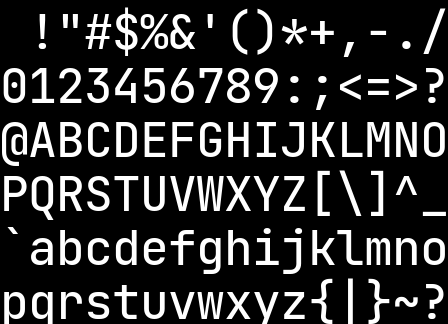
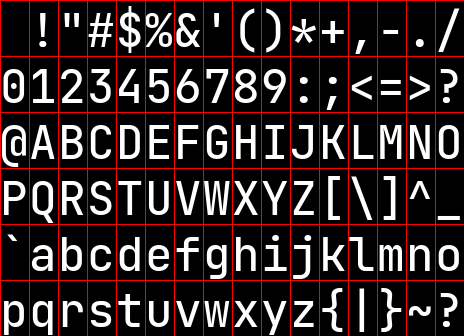
chore: display & font

diff --git a/tools/font.py b/tools/font.py
@@ -16,12 +16,12 @@ class FontCfg:
     def as_title(self):
         self.NAME = 'JBMONO_TITLE'
         self.FONT = 'JetBrainsMono.ttf'
-        self.BLOCK_SIZE = 50
+        self.BLOCK_SIZE = 52
         self.WIDTH = int(self.BLOCK_SIZE / 16 * 9)
         self.HEIGHT = self.BLOCK_SIZE + 4
         self.X_PAD = 0
         self.Y_PAD = 0
-        self.CHAR_SIZE = 48
+        self.CHAR_SIZE = 46
         self.SIZE = (self.WIDTH * 16, self.HEIGHT * 6)
 
     # def as_pixel(self):
@@ -48,7 +48,6 @@ def draw_img(cfg: FontCfg):
     draw = ImageDraw.Draw(im)
 
     draw.rectangle([(0, 0), cfg.SIZE], fill=BG)
-    x, y = 0, 0
 
     table = ''.join(i for i in ASCII if i.isprintable()) + '?'
     table = [table[idx * 16:idx * 16 + 16] for idx in range(6)]
@@ -67,7 +66,7 @@ def get_1bit(cfg: FontCfg, im):
         bit = 0
         for x in range(cfg.SIZE[0]):
             b = im.getpixel((x, y))
-            v = (v << 1) + (1 if b[0] > 32 else 0)
+            v = (v << 1) + (1 if b[0] > 35 else 0)
             bit += 1
             if bit == 8:
                 charmap.append(v)
@@ -77,13 +76,25 @@ def get_1bit(cfg: FontCfg, im):
             charmap.append(v << (7 - bit))
     return charmap
 
+def gen_font_border(cfg: FontCfg, im):
+    draw = ImageDraw.Draw(im)
+    # draw a border to identify the font size
+    for y in range(cfg.SIZE[1]):
+        for x in range(cfg.SIZE[0]):
+            if x % cfg.WIDTH == 0 or y % cfg.HEIGHT == 0:
+                draw.point((x, y), fill=(255, 0, 0))
+
 def gen(cfg: FontCfg):
     im = draw_img(cfg)
-    im.save(f'assets/img/{cfg.NAME}.png')
     res = get_1bit(cfg, im)
+
     print(cfg, len(res))
     with open(f'pkg/kernel/assets/{cfg.NAME}.raw', 'wb') as fp:
         fp.write(bytes(res))
+
+    gen_font_border(cfg, im)
+    im.save(f'assets/img/{cfg.NAME}.png')
+
 
 if __name__ == "__main__":
     cfg = FontCfg()

diff --git a/pkg/kernel/src/drivers/console.rs b/pkg/kernel/src/drivers/console.rs
@@ -139,9 +139,8 @@ impl Console {
                     self.prev_char();
                     self.prev_char();
                 }
-                // handle other control characters here
                 '\x1b' => {
-                    let count = self.handle_ctlseqs(s.split_at(idx + 1).1);
+                    let count = self.handle_ctlseqs(&mut s.chars().skip(idx + 1));
                     skip = idx + count + 1;
                 }
                 _ => self.write_char(c),
@@ -149,23 +148,32 @@ impl Console {
         }
     }
 
-    pub fn handle_ctlseqs(&mut self, s: &str) -> usize {
+    fn handle_ctlseqs(&mut self, chrs: &mut impl Iterator<Item = char>) -> usize {
         // support list:
-        // CSI n A
-        // CSI n B
-        // CSI n C
-        // CSI n D
-        // CSI y ; x H
-        // CSI n J
+        // c                Clear
+        // CSI n A          Cursor Up
+        // CSI n B          Cursor Down
+        // CSI n C          Cursor Forward
+        // CSI n D          Cursor Backward
+        // CSI y ; x H      Cursor Position
+        // CSI n J          Erase in Display
 
-        if !s.starts_with('[') {
-            return 0;
+        match chrs.next() {
+            Some('[') => self.handle_csi(chrs),
+            Some('c') => {
+                self.clear();
+                1
+            }
+            _ => 0,
         }
+    }
 
+    fn handle_csi(&mut self, chrs: &mut impl Iterator<Item = char>) -> usize {
         let mut count = 1;
         let mut nums = Vec::new();
         let mut num = 0;
-        for c in s.chars().skip(1) {
+
+        for c in chrs {
             count += 1;
 
             match c {

diff --git a/pkg/kernel/src/utils/font.rs b/pkg/kernel/src/utils/font.rs
@@ -15,9 +15,9 @@ pub const JBMONO: MonoFont = MonoFont {
 };
 
 pub const JBMONO_TITLE: MonoFont = MonoFont {
-    image: ImageRaw::new(include_bytes!("../../assets/JBMONO_TITLE.raw"), 28 * 16),
+    image: ImageRaw::new(include_bytes!("../../assets/JBMONO_TITLE.raw"), 29 * 16),
     glyph_mapping: &ASCII,
-    character_size: Size::new(28, 54),
+    character_size: Size::new(29, 56),
     character_spacing: 0,
     baseline: 42,
     underline: DecorationDimensions::new(42, 3),
